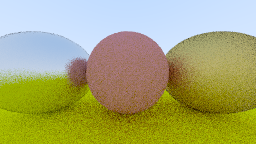
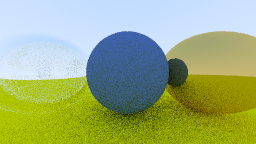
section 10

diff --git a/main.py b/main.py
@@ -9,7 +9,7 @@ from util import *
 from hittable import HittableList, Hittable, HitRecord
 from sphere import Sphere
 from camera import Camera
-from material import Metal, Lambertian, Material
+from material import *
 
 def ray_color(r: Ray, world:Hittable, depth:int):
 
@@ -57,13 +57,14 @@ class RayTracer:
         self.world = HittableList()
 
         material_ground = Lambertian(Color(0.8, 0.8, 0.0))
-        material_center = Lambertian(Color(0.7, 0.3, 0.3))
-        material_left = Metal(Color(0.8, 0.8, 0.8), fuzz=0.3)
-        material_right = Metal(Color(0.8, 0.6, 0.2), fuzz=1.0)
+        material_center = Lambertian(Color(0.1,0.2,0.5))
+        material_left = Dielectric(ir=1.5)
+        material_right = Metal(Color(0.8, 0.6, 0.2), fuzz=0.0)
 
         self.world.add(Sphere(cen=Point3(0,0,-1),r=0.5,m=material_center))
         self.world.add(Sphere(cen=Point3(0,-100.5,-1), r=100,m=material_ground)) 
         self.world.add(Sphere(cen=Point3(-1,0,-1), r=0.5,m=material_left)) 
+        self.world.add(Sphere(cen=Point3(-1.0, 0.0, -1.0), r=-0.4, m=material_left))
         self.world.add(Sphere(cen=Point3(1, 0,-1), r=0.5,m=material_right)) 
 
         # my test
@@ -124,7 +125,7 @@ class RayTracer:
 parser = argparse.ArgumentParser(description='Ray Tracer in Python')
 parser.add_argument('--img_width', type=int, default=256, help='Width of img')
 parser.add_argument('--sample', type=int, default=10, help='Num of samples per pixel')
-parser.add_argument('--recursion', type=int, default=20, help='Num of maximum recursion depth')
+parser.add_argument('--recursion', type=int, default=50, help='Num of maximum recursion depth')
 
 
 if __name__=='__main__':

diff --git a/material.py b/material.py
@@ -1,6 +1,8 @@
 from hittable import HitRecord
 from ray import Ray
-from vector import Vector3, Color, Point3 , random_unit_vector, reflect, random_in_unit_sphere
+from vector import Vector3, Color, Point3 , random_unit_vector, \
+    reflect, random_in_unit_sphere, refract, random_float
+import math
 
 
 class Material:
@@ -47,3 +49,32 @@ class Metal(Material):
         
         return (scattered.direction.dot(hit_record.normal)>0)
 
+class Dielectric(Material):
+    def __init__(self, ir:float):
+        self.ir = ir # index of refraction
+    
+    def scatter(self, r_in:Ray, hit_record:HitRecord, attenuation:Color, scattered:Ray):
+
+        attenuation.copy(Color(1,1,1))
+
+        refraction_ratio =  1.0/self.ir if hit_record.front_face else self.ir
+        unit_direction = r_in.direction.unit_vector()
+
+        cos_theta = min(unit_direction.negative().dot(hit_record.normal), 1.0)
+        sin_theta = math.sqrt(1.0 - cos_theta*cos_theta)
+
+        cannot_refract = refraction_ratio * sin_theta > 1.0
+        # judge whether can refract
+        if cannot_refract or self.reflectance(cos_theta, refraction_ratio)>random_float():
+            direction = reflect(unit_direction, hit_record.normal)
+        else:
+            direction = refract(unit_direction, hit_record.normal, refraction_ratio)
+
+        scattered.copy(Ray(hit_record.p, direction))
+        return True
+    
+    def reflectance(self, cosine:float, ref_idx:float):
+        # Schlick's approximation
+        r0 = (1-ref_idx) / (1+ref_idx)
+        r0 = r0 * r0
+        return r0 + (1-r0)*math.pow((1-cosine), 5)

diff --git a/vector.py b/vector.py
@@ -139,6 +139,16 @@ def random_in_hemisphere(normal:Vector3):
 def reflect(v:Vector3, n:Vector3):
     return v - n.multiply(2*v.dot(n))
 
+def refract(uv:Vector3, n:Vector3, etai_over_etat:float):
+    """
+    refraction
+    """ 
+    cos_theta = min(uv.negative().dot(n), 1.0)
+    r_out_perp = (uv + n.multiply(cos_theta)).multiply(etai_over_etat)
+    r_out_parallel = n.multiply(-math.sqrt(abs(1.0 - r_out_perp.length_square())))
+    return r_out_parallel + r_out_perp
+
+
 class Color(Vector3):
     def __init__(self, r=0., g=0., b=0.):
         super(Color, self).__init__(r,g,b)

diff --git a/ray.py b/ray.py
@@ -8,7 +8,10 @@ class Ray:
     def at(self, t:float):
         return self.origin +  self.direction.multiply(t)
     
-
+    def copy(self, r):
+        self.origin = r.origin
+        self.direction = r.direction
+        
 if __name__=='__main__':
     org = Point3(1,2,3)
     direc = Vector3(1,2,3)
